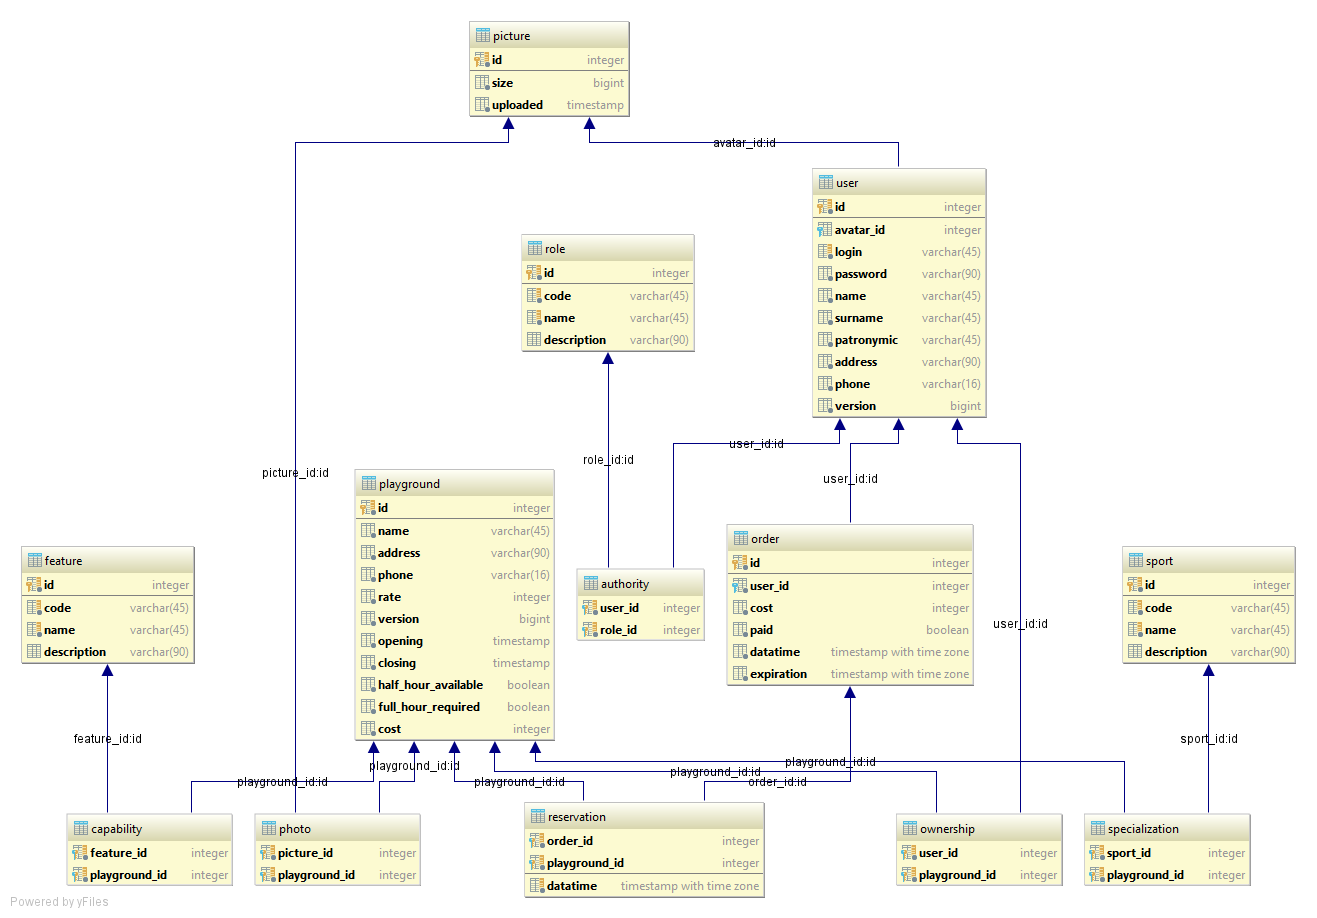
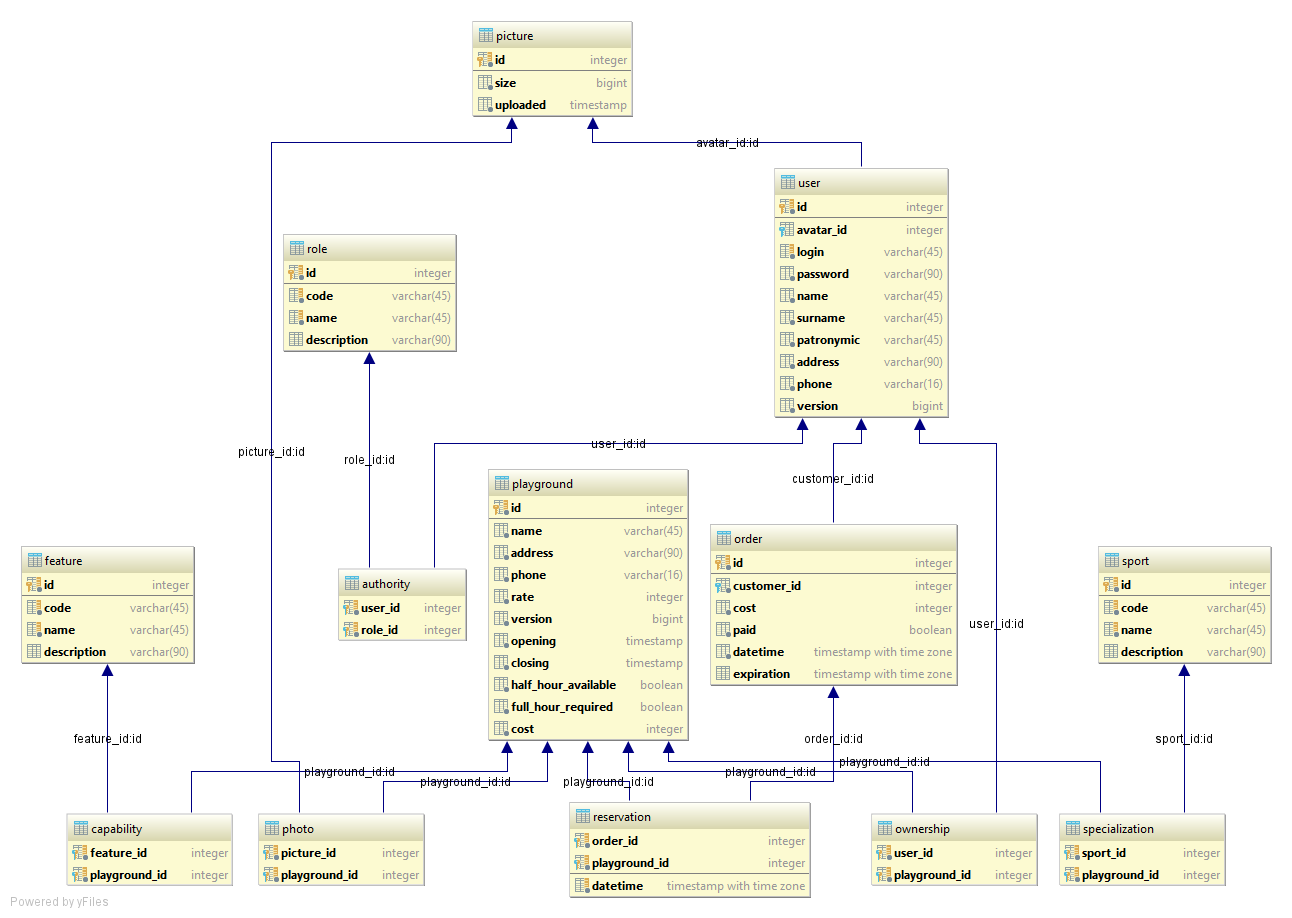
db scripts fixed, orm layout update

diff --git a/src/main/java/ru/vldf/sportsportal/domain/sectional/lease/PlaygroundEntity.java b/src/main/java/ru/vldf/sportsportal/domain/sectional/lease/PlaygroundEntity.java
@@ -5,6 +5,7 @@ import ru.vldf.sportsportal.domain.sectional.common.PictureEntity;
 import ru.vldf.sportsportal.domain.sectional.common.UserEntity;
 
 import javax.persistence.*;
+import java.sql.Timestamp;
 import java.util.Collection;
 
 @Entity
@@ -26,6 +27,29 @@ public class PlaygroundEntity extends AbstractVersionedEntity {
     @Basic
     @Column(name = "rate", nullable = false)
     private Integer rate;
+
+    @Basic
+    @Column(name = "opening", nullable = false)
+    private Timestamp opening;
+
+    @Basic
+    @Column(name = "closing", nullable = false)
+    private Timestamp closing;
+
+    @Basic
+    @Column(name = "half_hour_available", nullable = false)
+    private Boolean halfHourAvailable = true;
+
+    @Basic
+    @Column(name = "full_hour_required", nullable = false)
+    private Boolean fullHourRequired = false;
+
+    @Basic
+    @Column(name = "cost", nullable = false)
+    private Integer cost;
+
+    @OneToMany(mappedBy = "pk.playground")
+    private Collection<ReservationEntity> reservations;
 
     @ManyToMany
     @JoinTable(
@@ -95,6 +119,54 @@ public class PlaygroundEntity extends AbstractVersionedEntity {
 
     public void setRate(Integer rate) {
         this.rate = rate;
+    }
+
+    public Timestamp getOpening() {
+        return opening;
+    }
+
+    public void setOpening(Timestamp opening) {
+        this.opening = opening;
+    }
+
+    public Timestamp getClosing() {
+        return closing;
+    }
+
+    public void setClosing(Timestamp closing) {
+        this.closing = closing;
+    }
+
+    public Boolean getHalfHourAvailable() {
+        return halfHourAvailable;
+    }
+
+    public void setHalfHourAvailable(Boolean halfHourAvailable) {
+        this.halfHourAvailable = halfHourAvailable;
+    }
+
+    public Boolean getFullHourRequired() {
+        return fullHourRequired;
+    }
+
+    public void setFullHourRequired(Boolean fullHourRequired) {
+        this.fullHourRequired = fullHourRequired;
+    }
+
+    public Integer getCost() {
+        return cost;
+    }
+
+    public void setCost(Integer cost) {
+        this.cost = cost;
+    }
+
+    public Collection<ReservationEntity> getReservations() {
+        return reservations;
+    }
+
+    public void setReservations(Collection<ReservationEntity> reservations) {
+        this.reservations = reservations;
     }
 
     public Collection<SportEntity> getSpecializations() {

diff --git a/src/main/java/ru/vldf/sportsportal/domain/sectional/lease/OrderEntity.java b/src/main/java/ru/vldf/sportsportal/domain/sectional/lease/OrderEntity.java
@@ -1,0 +1,85 @@
+package ru.vldf.sportsportal.domain.sectional.lease;
+
+import ru.vldf.sportsportal.domain.generic.AbstractIdentifiedEntity;
+import ru.vldf.sportsportal.domain.sectional.common.UserEntity;
+
+import javax.persistence.*;
+import java.sql.Timestamp;
+import java.util.Collection;
+
+@Entity
+@Table(name = "order", schema = "lease")
+public class OrderEntity extends AbstractIdentifiedEntity {
+
+    @Basic
+    @Column(name = "cost", nullable = false)
+    private Integer cost;
+
+    @Basic
+    @Column(name = "paid", nullable = false)
+    private Boolean paid = false;
+
+    @Basic
+    @Column(name = "datetime", nullable = false)
+    private Timestamp datetime;
+
+    @Basic
+    @Column(name = "expiration")
+    private Timestamp expiration;
+
+    @ManyToOne
+    @JoinColumn(name = "customer_id", referencedColumnName = "id")
+    private UserEntity customer;
+
+    @OneToMany(mappedBy = "pk.order")
+    private Collection<ReservationEntity> reservations;
+
+
+    public Integer getCost() {
+        return cost;
+    }
+
+    public void setCost(Integer cost) {
+        this.cost = cost;
+    }
+
+    public Boolean getPaid() {
+        return paid;
+    }
+
+    public void setPaid(Boolean paid) {
+        this.paid = paid;
+    }
+
+    public Timestamp getDatetime() {
+        return datetime;
+    }
+
+    public void setDatetime(Timestamp datetime) {
+        this.datetime = datetime;
+    }
+
+    public Timestamp getExpiration() {
+        return expiration;
+    }
+
+    public void setExpiration(Timestamp expiration) {
+        this.expiration = expiration;
+    }
+
+    public UserEntity getCustomer() {
+        return customer;
+    }
+
+    public void setCustomer(UserEntity customer) {
+        this.customer = customer;
+    }
+
+    public Collection<ReservationEntity> getReservations() {
+        return reservations;
+    }
+
+    public void setReservations(Collection<ReservationEntity> reservations) {
+        this.reservations = reservations;
+    }
+}

diff --git a/src/main/java/ru/vldf/sportsportal/domain/sectional/lease/ReservationEntity.java b/src/main/java/ru/vldf/sportsportal/domain/sectional/lease/ReservationEntity.java
@@ -1,0 +1,62 @@
+package ru.vldf.sportsportal.domain.sectional.lease;
+
+import ru.vldf.sportsportal.domain.generic.DomainObject;
+
+import javax.persistence.*;
+import java.sql.Timestamp;
+
+@Entity
+@Table(name = "reservation", schema = "lease")
+@AssociationOverrides({
+        @AssociationOverride(name = "pk.order", joinColumns = @JoinColumn(name = "order_id")),
+        @AssociationOverride(name = "pk.playground", joinColumns = @JoinColumn(name = "playground_id"))
+})
+public class ReservationEntity implements DomainObject {
+
+    @EmbeddedId
+    private ReservationEntityPK pk;
+
+    @Basic
+    @Column(name = "datetime", nullable = false)
+    private Timestamp datetime;
+
+
+    public ReservationEntity() {
+        pk = new ReservationEntityPK();
+    }
+
+
+    public ReservationEntityPK getPk() {
+        return pk;
+    }
+
+    public void setPk(ReservationEntityPK pk) {
+        this.pk = pk;
+    }
+
+    public Timestamp getDatetime() {
+        return datetime;
+    }
+
+    public void setDatetime(Timestamp datetime) {
+        this.datetime = datetime;
+    }
+
+    @Transient
+    public OrderEntity getOrder() {
+        return pk.getOrder();
+    }
+
+    public void setOrder(OrderEntity order) {
+        pk.setOrder(order);
+    }
+
+    @Transient
+    public PlaygroundEntity getPlayground() {
+        return pk.getPlayground();
+    }
+
+    public void setPlayground(PlaygroundEntity playground) {
+        pk.setPlayground(playground);
+    }
+}

diff --git a/src/main/java/ru/vldf/sportsportal/domain/sectional/common/UserEntity.java b/src/main/java/ru/vldf/sportsportal/domain/sectional/common/UserEntity.java
@@ -1,6 +1,7 @@
 package ru.vldf.sportsportal.domain.sectional.common;
 
 import ru.vldf.sportsportal.domain.generic.AbstractVersionedEntity;
+import ru.vldf.sportsportal.domain.sectional.lease.OrderEntity;
 import ru.vldf.sportsportal.domain.sectional.lease.PlaygroundEntity;
 
 import javax.persistence.*;
@@ -41,6 +42,9 @@ public class UserEntity extends AbstractVersionedEntity {
     @OneToOne
     @JoinColumn(name = "avatar_id", referencedColumnName = "id")
     private PictureEntity avatar;
+
+    @OneToMany(mappedBy = "customer")
+    private Collection<OrderEntity> orders;
 
     @ManyToMany
     @JoinTable(
@@ -117,6 +121,14 @@ public class UserEntity extends AbstractVersionedEntity {
 
     public void setAvatar(PictureEntity avatar) {
         this.avatar = avatar;
+    }
+
+    public Collection<OrderEntity> getOrders() {
+        return orders;
+    }
+
+    public void setOrders(Collection<OrderEntity> orders) {
+        this.orders = orders;
     }
 
     public Collection<RoleEntity> getRoles() {

diff --git a/src/main/java/ru/vldf/sportsportal/domain/sectional/lease/ReservationEntityPK.java b/src/main/java/ru/vldf/sportsportal/domain/sectional/lease/ReservationEntityPK.java
@@ -1,0 +1,32 @@
+package ru.vldf.sportsportal.domain.sectional.lease;
+
+import javax.persistence.Embeddable;
+import javax.persistence.ManyToOne;
+import java.io.Serializable;
+
+@Embeddable
+public class ReservationEntityPK implements Serializable {
+
+    @ManyToOne
+    private OrderEntity order;
+
+    @ManyToOne
+    private PlaygroundEntity playground;
+
+
+    public OrderEntity getOrder() {
+        return order;
+    }
+
+    public void setOrder(OrderEntity order) {
+        this.order = order;
+    }
+
+    public PlaygroundEntity getPlayground() {
+        return playground;
+    }
+
+    public void setPlayground(PlaygroundEntity playground) {
+        this.playground = playground;
+    }
+}
